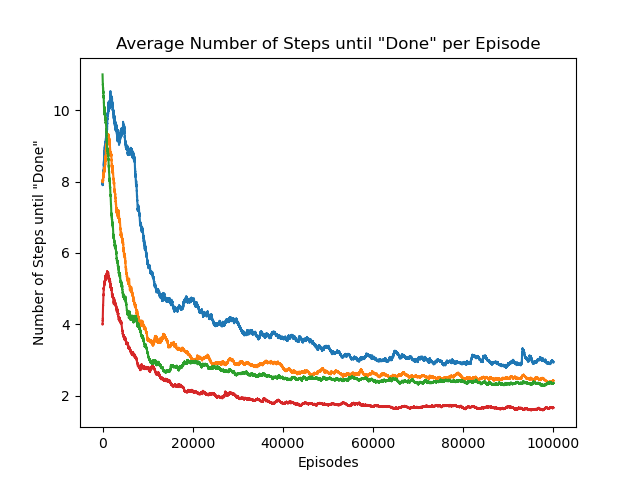
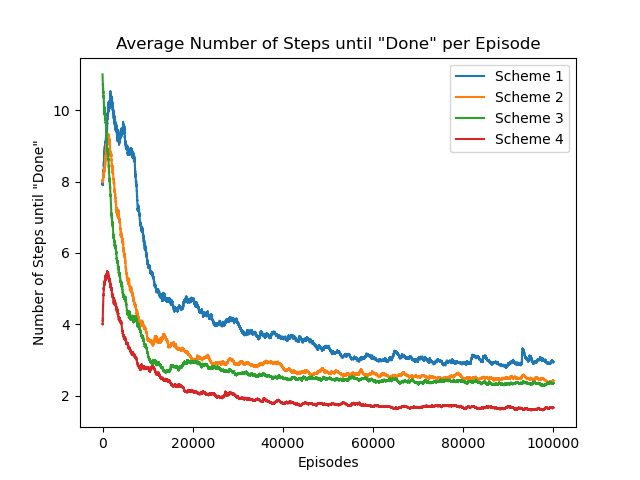
plotting error fix

Changed region(s): [[0.7188, 0.125, 0.9062, 0.3125]]

diff --git a/plotting/sarsa_qlearning_default/plot.py b/plotting/sarsa_qlearning_default/plot.py
@@ -11,9 +11,10 @@ plt.plot(delta_2['Delta_save'], label='Q Learning')
 plt.xlabel('Episodes')
 plt.ylabel('Error')
 plt.title('Average Loss')
+plt.xlim([0,60000])
 plt.legend()
 # plt.show()
-plt.savefig('svsq_report_delta.png')
+plt.savefig('svsq_better_report_delta.png')
 plt.close()
 
 N_moves_1 = pd.read_csv('N_moves_SARSA.csv')
@@ -25,8 +26,10 @@ plt.plot(N_moves_2['N_moves'], label='Q Learning')
 plt.xlabel('Episodes')
 plt.ylabel('Number of Steps until "Done"')
 plt.title('Average Number of Steps until "Done" per Episode')
+plt.xlim([0,60000])
+plt.legend()
 # plt.show()
-plt.savefig('svsq_report_N_moves.png')
+plt.savefig('svsq_better_report_N_moves.png')
 plt.close()
 
 reward_1 = pd.read_csv('R_save_SARSA.csv')
@@ -39,6 +42,7 @@ plt.xlabel('Episodes')
 plt.ylabel('Reward')
 plt.title('Average Rewards per Episode')
 plt.legend()
+plt.xlim([0,60000])
 # plt.show()
-plt.savefig('svsq_report_reward.png')
+plt.savefig('svsq_better_report_reward.png')
 plt.close()

diff --git a/plotting/q_learning_reward_schemes/qlern_report_different_rewardschem_plot.py b/plotting/q_learning_reward_schemes/qlern_report_different_rewardschem_plot.py
@@ -37,6 +37,7 @@ plt.plot(N_moves_4['N_moves'], label='Scheme 4')
 plt.xlabel('Episodes')
 plt.ylabel('Number of Steps until "Done"')
 plt.title('Average Number of Steps until "Done" per Episode')
+plt.legend()
 # plt.show()
 plt.savefig('report_N_moves.png')
 plt.close()

diff --git a/plotting/sarsa_reward_schemes/report_different_rewardschem_plot.py b/plotting/sarsa_reward_schemes/report_different_rewardschem_plot.py
@@ -37,6 +37,7 @@ plt.plot(N_moves_4['N_moves'], label='Scheme 4')
 plt.xlabel('Episodes')
 plt.ylabel('Number of Steps until "Done"')
 plt.title('Average Number of Steps until "Done" per Episode')
+plt.legend()
 # plt.show()
 plt.savefig('report_N_moves.png')
 plt.close()
